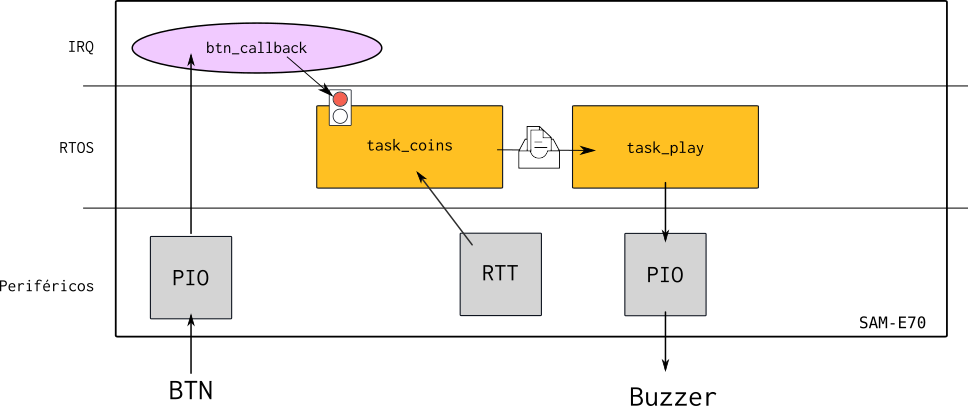
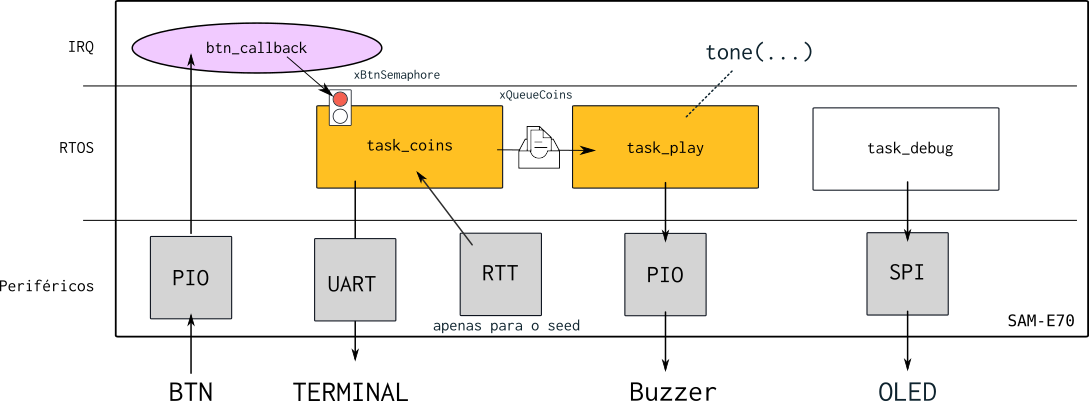
update

diff --git a/README.md b/README.md
@@ -2,7 +2,13 @@
 
 Nessa avaliação vocês irão recriar um brinquedo de um jogo de tabuleiro do banco imobiliário do Mário (peguei ideia brincando com os meus filhos), este jogo tem um dispositivo que quando apertado indica sonoramente quantas "moedas" o jogador irá ganhar (de forma aleatória). Toda vez que alguém aperta o botão sons são reproduzidos indicando se o jogador vai ganhar: UMA, DUAS ou TRÊS moedas.
 
+Inspiracão:
+
 https://www.youtube.com/shorts/klZNN5-Mb7w
+
+Entrega final:
+
+https://youtube.com/shorts/FMlfLhubCv4?feature=share
 
 ## Firmware
 
@@ -21,11 +27,13 @@ Tasks:
 
 - `task_coins`: Task que recebe a informação que o botão foi pressionado e calcula quantas moedas o jogador vai ganhar, coloca esta informação na fila `xQueueCoins`.
 - `task_coins`: Task que reproduz o som de acordo com quantas moedas vão ser oferecidas para o jogador.
+- `task_debug`: Uma task que fica piscando uma bola no OLED, se a bolinha parar de piscar quer dizer que o código travou.
 
 Periféricos:
 
 - PIO: Para fazer a leitura do botão e acionar o buzzer.
 - RTT: Vai ser usado para gerar o seed do gerador de números randômicos.
+- UART: Para exibir os valores de debug! 
 
 IRQ:
 
@@ -38,6 +46,8 @@ Seria muito ruim se o dispositivo fornecesse sempre a mesma sequência de moedas
 Para gerarmos uma sequência aleatória, podemos utilizar a função `int rand(void)` disponível na lib `string.h`. Sempre que essa função é acionada, ela devolve um valor "aleatório" entre `0` e `RAND_MAX`. Contudo, o `rand` necessita ser inicializado com uma semente (`seed`) para produzir números distintos a cada inicialização.
 
 > Você vai ter que limitar o resultado do `rand()` para operar entre [1~3].
+>
+> Pesquise no google como fazer isso.
 
 A função `srand(int seed)` é responsável por inicializar o `rand()`, de modo que ele possa gerar sequências verdadeiramente aleatórias a cada vez que é chamado. Se sempre utilizarmos a mesma semente, a função `rand()` produzirá a mesma sequência de números aleatórios a cada inicialização. Portanto, uma prática comum é usar algum evento de tempo como semente (que dificilmente vai se repetir), garantindo assim que a sequência gerada seja diferente em execuções distintas.
 
@@ -50,10 +60,11 @@ Podemos pensar em algumas soluções para gerarmos o `seed` do `srand`:
 1. Tempo em que o sistema ficou ligado até o momento que o botão é apertado pela primeira vez
 1. Tempo em que botão fica pressionado pela primeira vez
 
-Você deve ter algo como:
+No final Você deve ter algo como:
 
 ```c 
-srand(time)
+
+srand(time); // Onde time é um interiro que depende de um fator externo imprevisível.
 
 while(1){
 
@@ -65,6 +76,20 @@ while(1){
 Onde o `time` é um valor que depende de um tempo externo e que é imprevisível e "único" cada vez. **O `time` deve ser calculado via uso do `RTT`.**
 
 **Você pode escolher qual abordagem deseja usar.**
+
+### Debug
+
+Tando para quando o `seed` for gerando quanto para um número de moedas for processado, você deve imprimir no terminal: 
+
+``` c
+Seed : 123131
+Coins: 1
+Coins: 3
+Coins: 3
+...
+...
+
+```
 
 ### Som
 
@@ -80,6 +105,16 @@ tone(NOTE_E6, 640);
 ```
 
 > Você vai precisar usar a sua função `tone()` da APS1 
+
+#### `task_play`
+
+Nesta task vocês devem usar a função `tone` e reproduzir o som da moeda, mas para isso funcionar direito vocês vão precisar aumentar a prioridade da task (por conta do `delay_us` que tem na função). 
+
+**Aumente a prioridade da `task_play` para: **
+
+``` c
+(tskIDLE_PRIORITY + 1)
+```
 
 ## Entrega
 
@@ -98,12 +133,12 @@ Um sistema é projetado para emitir o som de uma moeda aleatoriamente N vezes, c
 - [ ] **Tarefas**: O código possui duas tarefas: `task_coin` e `task_play`.
 - [ ] **Inicialização do `srand`**: A `task_coin` inicializa o `srand` com o `seed` assim que disponível.
 - [ ] **Leitura do Semáforo**: A `task_coin` verifica o semáforo `xBtnSemaphore`.
-- [ ] **Geração de Número Aleatório**: A `task_coin` gera um valor aleatório entre `[0, 3]` e envia para a fila `xQueueCoins`.
+- [ ] **Geração de Número Aleatório**: A `task_coin` gera um valor aleatório entre `[1, 3]` e envia para a fila `xQueueCoins`.
 - [ ] **Liberação do Semáforo**: O botão libera o semáforo `xBtnSemaphore` ao ser pressionado.
-- [ ] **Recepção da Fila**: A `task_play` lê da fila um valor `n` que varia entre `[0, 3]`.
+- [ ] **Recepção da Fila**: A `task_play` lê da fila um valor `n` que varia entre `[1, 3]`.
 - [ ] **Reprodução do Som**: A `task_play` reproduz o som da moeda \( n \) vezes.
 - [ ] **Utilização da Função `tone`**: A `task_play` faz uso da função `tone` para tocar as notas.
-
+- [ ] **Debug no terminal do seed e do número gerado**
 <!--
 ### Check list: funcionalidade
 
